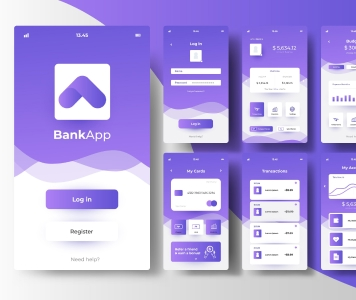
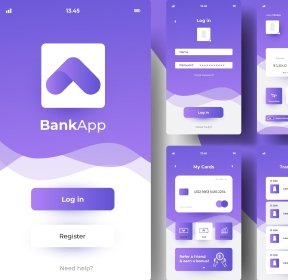
fix portfolio img

diff --git a/index.html b/index.html
@@ -320,20 +320,27 @@
             <li class="portfolio-item">
               <div class="portfolio-wrapper">
                 <picture>
+                  <!--Desktop version-->
                   <source
-                  media="min-width: 1158px"
-                  srcset="./images/portfolio/img_desc@1x-5.jpg,
-                  ./images/portfolio/img_desc@2x-5" />
-                <img
+                  media="(min-width: 1158px)"
+                  srcset="./images/portfolio/img_desc@1x-5.jpg 1x,
+                  ./images/portfolio/img_desc@2x-5.jpg 2x" />
+                  <!--Tablet version-->
+                  <source
+                  media="(min-width: 768px)"
+                  srcset="./images/portfolio/img_tab@1x-5.jpg 1x,
+                  ./images/portfolio/img_tab@2x-5.jpg 2x"/>
+                  <!--Mobile version-->
+                  <source
+                  media="(max-width: 767px)"
+                  srcset="./images/portfolio/img_mob@1x-5.jpg 1x,
+                  ./images/portfolio/img_mob@2x-5.jpg 2x"/>
+                  <img
                   class="portfolio-image"
-                  srcset="./images/portfolio/img_mob@1x-5.jpg,
-                  ./images/portfolio/img_mob@2x-5.jpg"
                   src="./images/portfolio/img_mob@1x-5.jpg"
-                  alt="portfolio-list 1"
-                
+                  alt="portfolio-list 1"                
                   width="360"
-                  height="300"
-                />
+                  height="300" />
               </picture>
                 <p class="overlay">14 Stylish and User-Friendly App Design Concepts · Task Manager App · Calorie Tracker App · Exotic Fruit Ecommerce App · Cloud Storage App</p>
               </div>
@@ -344,13 +351,31 @@
             </li>
             <li class="portfolio-item">
               <div class="portfolio-wrapper">
-                <img
+                <picture>
+                  <!--Desktop version-->
+<source
+media="(min-width: 1158px)"
+srcset="./images/portfolio/img_desc@1x-4.jpg 1x,
+./images/portfolio/img_desc@2x-4.jpg 2x" />
+<!--Tablet version-->
+<source
+media="(min-width: 768px)"
+srcset="./images/portfolio/img_tab@1x-4.jpg 1x,
+./images/portfolio/img_tab@2x-4.jpg 2x"/>
+<!--Mobile version-->
+<source
+media="(min-width: 320px)"
+srcset="./images/portfolio/img_mob@1x-4.jpg 1x,
+./images/portfolio/img_mob@2x-4.jpg 2x"/>
+<img
                   class="portfolio-image"
-                  src="./images/img-9.jpg"
+                  src="./images/portfolio/img_mob@1x-4.jpg"
                   alt="Portfolio 2"
                   width="360"
                   height="300"
                 />
+                </picture>
+                
                 <p class="overlay">14 Stylish and User-Friendly App Design Concepts · Task Manager App · Calorie Tracker App · Exotic Fruit Ecommerce App · Cloud Storage App</p>
               </div>
               <div class="portfolio-card">
@@ -360,13 +385,30 @@
             </li>
             <li class="portfolio-item">
               <div class="portfolio-wrapper">
+                <picture>
+ <!--Desktop version-->
+ <source
+ media="(min-width: 1158px)"
+ srcset="./images/portfolio/img_desc@1x-3.jpg 1x,
+ ./images/portfolio/img_desc@2x-3.jpg 2x" />
+ <!--Tablet version-->
+ <source
+ media="(min-width: 768px)"
+ srcset="./images/portfolio/img_tab@1x-3.jpg 1x,
+ ./images/portfolio/img_tab@2x-3.jpg 2x" />
+ <!--Mobile version-->
+ <source
+ media="(max-width: 767px)"
+ srcset="./images/portfolio/img_mob@1x-3.jpg 1x,
+ ./images/portfolio/img_mob@2x-3.jpg 2x" />      
                 <img
                   class="portfolio-image"
-                  src="./images/img-8.jpg"
+                  src="./images/portfolio/img_mob@1x-3.jpg"
                   alt="Portfolio 3"
                   width="360"
                   height="300"
                 />
+              </picture>
                 <p class="overlay">14 Stylish and User-Friendly App Design Concepts · Task Manager App · Calorie Tracker App · Exotic Fruit Ecommerce App · Cloud Storage App</p>
               </div>
               <div class="portfolio-card">
@@ -376,13 +418,30 @@
             </li>
             <li class="portfolio-item">
               <div class="portfolio-wrapper">
+                <picture>
+                <!--Desktop version-->
+ <source
+ media="(min-width: 1158px)"
+ srcset="./images/portfolio/img_desc@1x-2.jpg 1x,
+ ./images/portfolio/img_desc@2x-2.jpg 2x" />
+ <!--Tablet version-->
+ <source
+ media="(min-width: 768px)"
+ srcset="./images/portfolio/img_tab@1x-2.jpg 1x,
+ ./images/portfolio/img_tab@2x-2.jpg 2x" />
+ <!--Mobile version-->
+ <source
+ media="(max-width: 767px)"
+ srcset="./images/portfolio/img_mob@1x-2.jpg 1x,
+ ./images/portfolio/img_mob@2x-2.jpg 2x" />  
                 <img
                   class="portfolio-image"
-                  src="./images/img-7.jpg"
+                  src="./images/img-2.jpg"
                   alt="Portfolio 4"
                   width="360"
                   height="300"
                 />
+              </picture>
                 <p class="overlay">14 Stylish and User-Friendly App Design Concepts · Task Manager App · Calorie Tracker App · Exotic Fruit Ecommerce App · Cloud Storage App</p>
               </div>
               <div class="portfolio-card">
@@ -392,13 +451,30 @@
             </li>
             <li class="portfolio-item">
               <div class="portfolio-wrapper">
+                <picture>
+                <!--Desktop version-->
+ <source
+ media="(min-width: 1158px)"
+ srcset="./images/portfolio/img_desc@1x-1.jpg 1x,
+ ./images/portfolio/img_desc@2x-1.jpg 2x" />
+ <!--Tablet version-->
+ <source
+ media="(min-width: 768px)"
+ srcset="./images/portfolio/img_tab@1x-1.jpg 1x,
+ ./images/portfolio/img_tab@2x-1.jpg 2x" />
+ <!--Mobile version-->
+ <source
+ media="(max-width: 767px)"
+ srcset="./images/portfolio/img_mob@1x-1.jpg 1x,
+ ./images/portfolio/img_mob@2x-1.jpg 2x" />
                 <img
                   class="portfolio-image"
-                  src="./images/img-6.jpg"
+                  src="./images/img-1.jpg"
                   alt="Portfolio 5"
                   width="360"
                   height="300"
                 />
+              </picture>
                 <p class="overlay">14 Stylish and User-Friendly App Design Concepts · Task Manager App · Calorie Tracker App · Exotic Fruit Ecommerce App · Cloud Storage App</p>
               </div>
               <div class="portfolio-card">
@@ -408,13 +484,30 @@
             </li>
             <li class="portfolio-item">
               <div class="portfolio-wrapper">
+                <picture>
+                 <!--Desktop version-->
+ <source
+ media="(min-width: 1158px)"
+ srcset="./images/portfolio/img_desc@1x-6.jpg 1x,
+ ./images/portfolio/img_desc@2x-6.jpg 2x" />
+ <!--Tablet version-->
+ <source
+ media="(min-width: 768px)"
+ srcset="./images/portfolio/img_tab@1x-6.jpg 1x,
+ ./images/portfolio/img_tab@2x-6.jpg 2x" />
+ <!--Mobile version-->
+ <source
+ media="(max-width: 767px)"
+ srcset="./images/portfolio/img_mob@1x-6.jpg 1x,
+ ./images/portfolio/img_mob@2x-6.jpg 2x" />
                 <img
                   class="portfolio-image"
-                  src="./images/img-5.jpg"
+                  src="./images/img-6.jpg"
                   alt="Portfolio6"
                   width="360"
                   height="300"
                 />
+              </picture>
                 <p class="overlay">14 Stylish and User-Friendly App Design Concepts · Task Manager App · Calorie Tracker App · Exotic Fruit Ecommerce App · Cloud Storage App</p>
               </div>
               <div class="portfolio-card">

diff --git a/css/styles.css b/css/styles.css
@@ -633,7 +633,7 @@ gap: 24px;
 .portfolio-image { 
     display: block;
 max-width: 100%;
-height: 100%;
+height: auto;
 }
 .portfolio-wrapper {
     position: relative;
